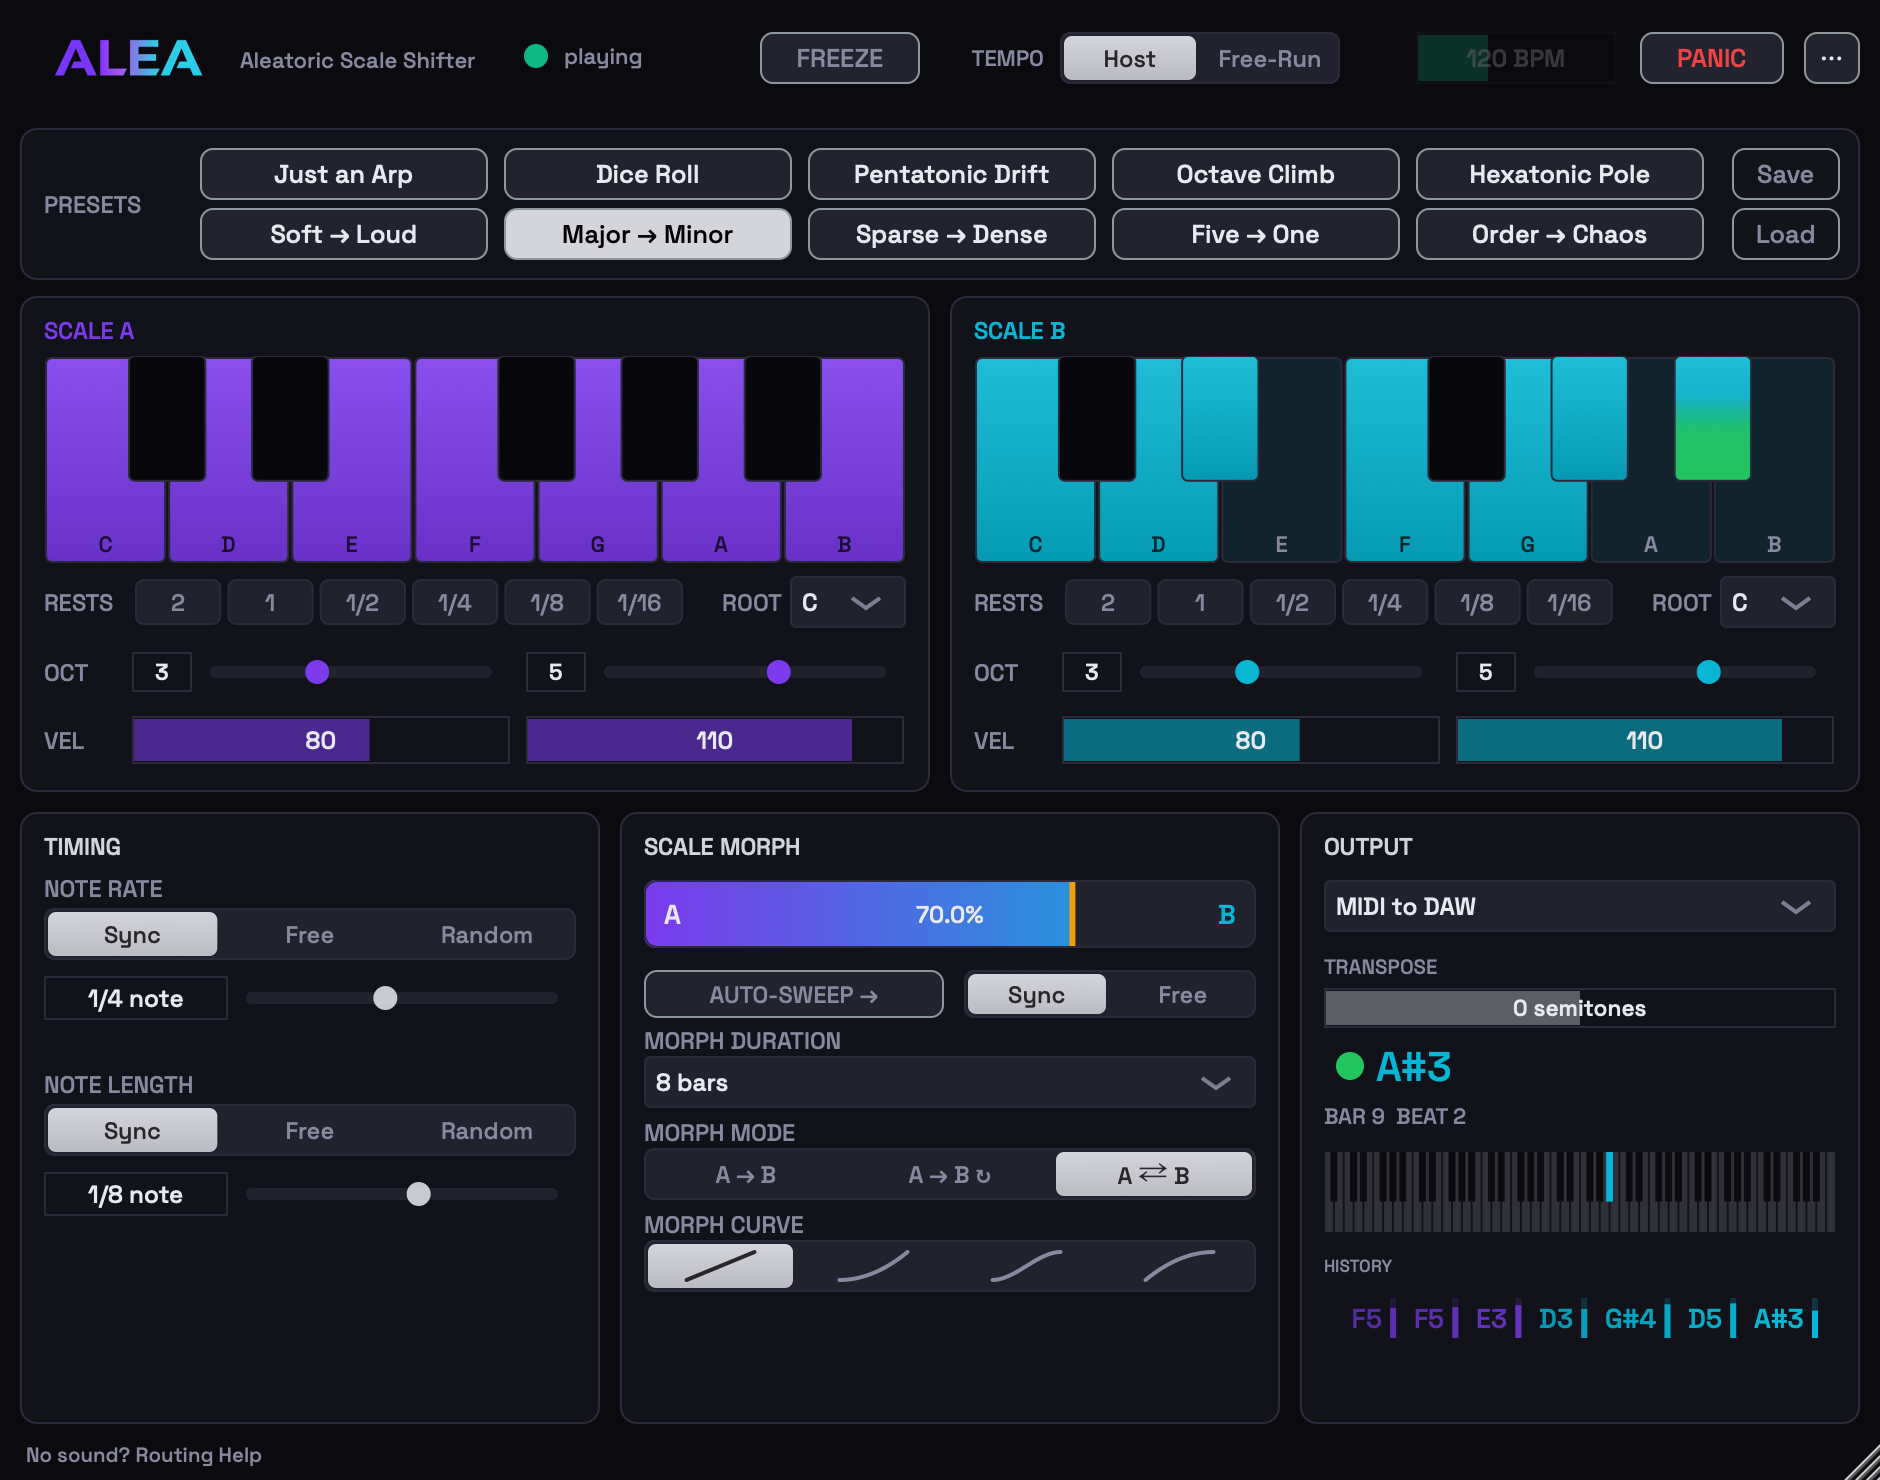
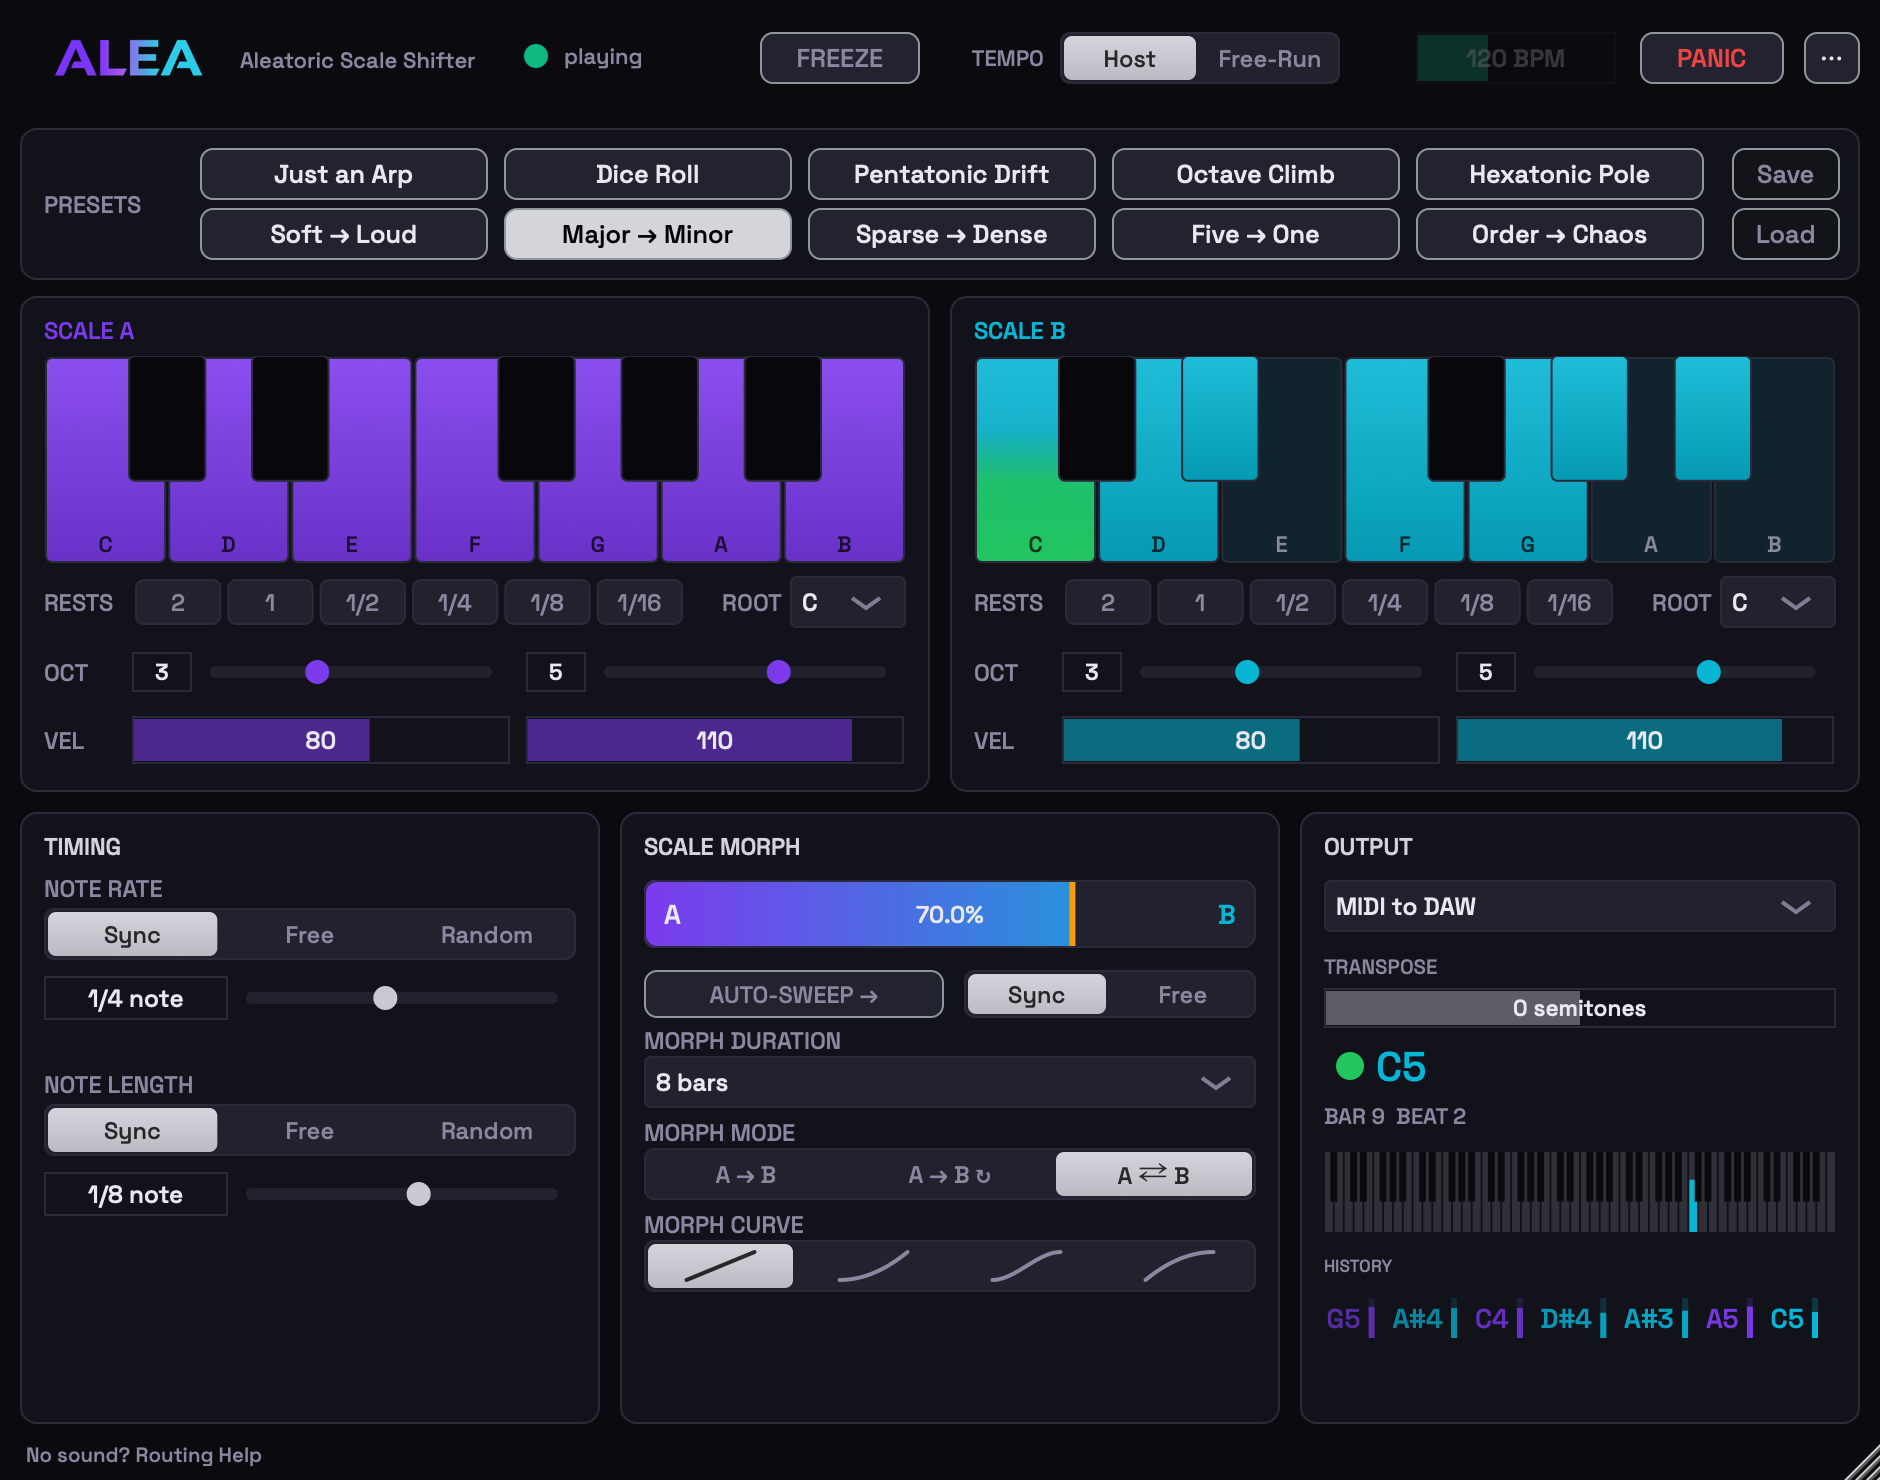
QA: tucking the MONITOR by dragging shorter is a feature
Yuval's reframe: hiding the keyboard is an ear-training mode - name
the chord's notes yourself, then check. So short windows are legal
again (min back to 500): MONITOR is full and titled, or tucked away
entirely, flipping at 600 window height (620 plugin). Never condensed,
never title-less - those states stayed dead from the last round. The
default window (900x680) shows the full keyboard with 80 px of slack,
so only a deliberate drag tucks it; fresh plugin instances always
open with it visible. The About text teaches the trick.

Also fixes the flip threshold accounting - the first cut subtracted
HISTORY twice, which hid the monitor even at the default size.

diff --git a/Source/Chords/ChordsEditor.cpp b/Source/Chords/ChordsEditor.cpp
@@ -59,6 +59,9 @@ namespace
                 "open, smooth the voice-leading, add a bass note. Rolling "
                 "mid-loop swaps the new chords in at the next chord change, "
                 "and clicking a chord jumps the loop there.\n\n"
+                "The MONITOR keyboard shows what is sounding. Make the "
+                "window shorter to tuck it away and name the notes "
+                "yourself, a nice ear workout.\n\n"
                 "Key lock keeps every roll diatonic to a chosen key and "
                 "scale, flavors included.\n\n"
                 "AUTO ROLL rolls for you every few loops (press A to flip "
@@ -830,14 +833,11 @@ ChordsEditor::ChordsEditor (ChordsProcessor& p)
     // Space belongs to the host in a DAW; the plugin never grabs keys.
     setWantsKeyboardFocus (standalone);
 
-    // The height floor fits everything at full size - header, cards at a
-    // useful minimum, both control blocks, the full MONITOR keyboard and
-    // HISTORY (the plugin adds its 20 px footer). Nothing ever condenses
-    // or hides with height; only the cards flex (QA, July 8).
+    // Short windows are legitimate (the tucked-monitor practice mode);
+    // the default (900x680) shows the full MONITOR with room to spare.
     setResizable (true, true);
-    setResizeLimits (880, standalone ? 620 : 640, 4096, 2400);
-    setSize (juce::jmax (880, chordsProc.lastUIWidth),
-             juce::jmax (standalone ? 620 : 640, chordsProc.lastUIHeight));
+    setResizeLimits (880, 500, 4096, 2400);
+    setSize (juce::jmax (880, chordsProc.lastUIWidth), juce::jmax (500, chordsProc.lastUIHeight));
 
     refresh();
     startTimerHz (30); // fast enough for the bar-progress strip and meter
@@ -1243,7 +1243,8 @@ void ChordsEditor::paint (juce::Graphics& g)
     };
     paintPanel (dicePanel, "DICE");
     paintPanel (loopPanel, "LOOP");
-    paintPanel (monitorPanel, "MONITOR");
+    if (monitor.isVisible())
+        paintPanel (monitorPanel, "MONITOR");
 
     // Divider between the roll column and the dice configuration - both are
     // dice business, but acting and configuring are different verbs.
@@ -1318,13 +1319,20 @@ void ChordsEditor::resized()
     ticker.setBounds (hist);
 
     // MONITOR: the keyboard earns the full window width (QA, July 8 -
-    // C1-C7 was cramped at half width inside LOOP). Always present, full
-    // height, titled: two flexing designs fell in QA (a show/hide
-    // threshold popped the cards; smooth compression bred condensed,
-    // title-less states Yuval rejected). The window minimum guarantees
-    // the room instead - only the cards flex with height.
-    monitorPanel = b.removeFromBottom (116).reduced (16, 0).withTrimmedBottom (8);
-    monitor.setBounds (monitorPanel.reduced (10).withTrimmedTop (16));
+    // C1-C7 was cramped at half width inside LOOP). Full and titled, or
+    // tucked away entirely - never condensed or title-less (two flexing
+    // designs fell in QA). Hiding it by dragging the window shorter is a
+    // FEATURE (Yuval): practice naming a chord's notes without the
+    // keyboard giving them away. The default window shows it with room
+    // to spare, so only a deliberate drag tucks it.
+    const bool showMonitor = b.getHeight() >= 208 + 116 + 120; // panels + monitor + a card floor (history already taken)
+    monitor.setVisible (showMonitor);
+    monitorPanel = {};
+    if (showMonitor)
+    {
+        monitorPanel = b.removeFromBottom (116).reduced (16, 0).withTrimmedBottom (8);
+        monitor.setBounds (monitorPanel.reduced (10).withTrimmedTop (16));
+    }
 
     // The two control blocks. DICE, top to bottom: roll + series length,
     // extensions + wideners, key lock, and auto roll on its own at the